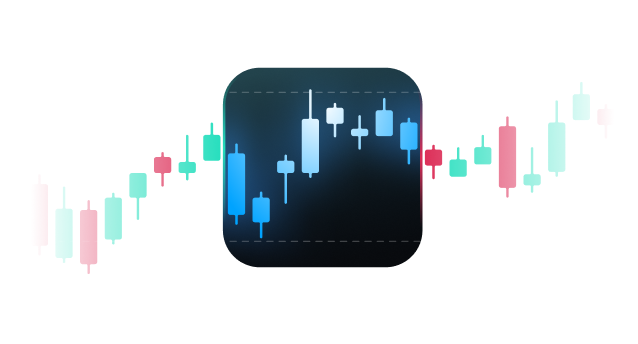
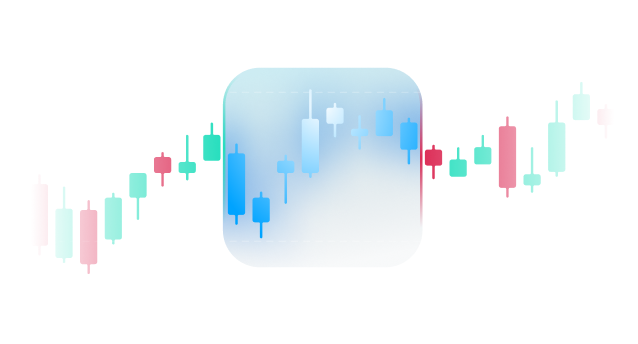
fix styles

Changed region(s): [[0.3276, 0.1744, 0.685, 0.7849]]

diff --git a/src/components/homepage-footer/HomepageFooter.js b/src/components/homepage-footer/HomepageFooter.js
@@ -1,7 +1,14 @@
 import React from 'react';
 import clsx from 'clsx';
 import styles from './HomepageFooter.module.css';
-import Link from "@docusaurus/Link";
+import Link from '@docusaurus/Link';
+import MediumImage from '../../../static/img/icons/medium.svg';
+import RedditImage from '../../../static/img/icons/reddit.svg';
+import TwitterImage from '../../../static/img/icons/twitter.svg';
+import DiscordImage from '../../../static/img/icons/discord.svg';
+import YoutubeImage from '../../../static/img/icons/youtube.svg';
+import TelegramImage from '../../../static/img/icons/telegram.svg';
+import GithubImage from '../../../static/img/icons/github.svg';
 
 
 const FooterLinks = {
@@ -90,31 +97,31 @@ const FooterLinks = {
     socialMedia: [
         {
             href: 'https://blog.1inch.io/',
-            image: '../../../static/img/icons/medium.svg'
+            image: <MediumImage/>
         },
         {
             href: 'https://www.reddit.com/r/1inch/',
-            image: '../../../static/img/icons/reddit.svg'
+            image: <RedditImage/>
         },
         {
             href: 'https://twitter.com/1inch',
-            image: '../../../static/img/icons/twitter.svg'
+            image: <TwitterImage/>
         },
         {
             href: 'https://discord.com/invite/1inch',
-            image: '../../../static/img/icons/discord.svg'
+            image: <DiscordImage/>
         },
         {
             href: 'https://www.youtube.com/channel/UCk0nvK4bHpteQXZKv7lkq5w',
-            image: '../../../static/img/icons/youtube.svg'
+            image: <YoutubeImage/>
         },
         {
             href: 'https://t.me/OneInchNetwork',
-            image: '../../../static/img/icons/telegram.svg'
+            image: <TelegramImage/>
         },
         {
             href: 'https://github.com/1inch',
-            image: '../../../static/img/icons/github.svg'
+            image: <GithubImage/>
         }
     ]
 }
@@ -150,8 +157,8 @@ export default function HomepageFooter() {
                     <div className={styles.socialMediaWrap}>
                         {
                             FooterLinks.socialMedia.map((media, idx) => (
-                                <Link to={media.href} key={idx}>
-                                    <img src={media.image} alt={media.link}/>
+                                <Link className={styles.socialMediaLink} to={media.href} key={idx}>
+                                    {media.image}
                                 </Link>
                             ))
                         }

diff --git a/src/pages/index.js b/src/pages/index.js
@@ -3,9 +3,10 @@ import clsx from 'clsx';
 import Layout from '@theme/Layout';
 import styles from './index.module.css';
 import HomepageFeatures from '../components/homepage-features/HomepageFeatures';
-import HomepageDeveloperLinks from "../components/homepage-developer-links/HomepageDeveloperLinks";
-import HomepagePreFooter from "../components/homepage-prefooter/HomepagePreFooter";
-import HomepageFooter from "../components/homepage-footer/HomepageFooter";
+import HomepageDeveloperLinks from '../components/homepage-developer-links/HomepageDeveloperLinks';
+import HomepagePreFooter from '../components/homepage-prefooter/HomepagePreFooter';
+import HomepageFooter from '../components/homepage-footer/HomepageFooter';
+import StartImage from '../../static/img/start-image.svg';
 
 function HomepageHeader() {
     return (
@@ -17,11 +18,23 @@ function HomepageHeader() {
 }
 
 export default function Home() {
+    document.addEventListener('scroll', function (e) {
+        const scrollPosition = window.scrollY;
+        const navbar = window.document.getElementsByClassName('navbar')[0];
+
+        if (scrollPosition > 0) {
+            navbar.classList.add('navbarFixed');
+        } else {
+            navbar.classList.remove('navbarFixed');
+        }
+    });
+
+
     return (
         <Layout pageClassName={styles.mainLayout}
-            title="1inch Network | Leading high capital efficient DeFi protocols"
-            description="The 1inch Network unites decentralized protocols whose synergy enables the most lucrative, fastest and protected operations in the DeFi space.">
-            <img className={styles.bgImage} src='../../static/img/start-image.png' alt="bg-image"/>
+                title="1inch Network | Leading high capital efficient DeFi protocols"
+                description="The 1inch Network unites decentralized protocols whose synergy enables the most lucrative, fastest and protected operations in the DeFi space.">
+            <StartImage className={styles.bgImage}/>
             <HomepageHeader/>
             <main>
                 <div className={styles.section}>
@@ -33,7 +46,7 @@ export default function Home() {
                 <div className={styles.section3}>
                     <HomepagePreFooter/>
                 </div>
-                <HomepageFooter />
+                <HomepageFooter/>
             </main>
             {/*<img src="../../static/img/bottom-gradient.png" alt="Bottom gradient" className={styles.bottomGradient} />*/}
         </Layout>

diff --git a/src/components/homepage-features/HomepageFeatures.js b/src/components/homepage-features/HomepageFeatures.js
@@ -2,9 +2,11 @@ import React from 'react';
 import clsx from 'clsx';
 import styles from './HomepageFeatures.module.css';
 import Link from '@docusaurus/Link';
-import aggregationProtocolImage from '../../../static/img/aggregationProtocol.png'
-import limitOrderProtocolImage from '../../../static/img/limit-order-protocol.png'
-import liquidityProtocolImage from '../../../static/img/liquidity-protocol.png'
+import aggregationProtocolImage from '../../../static/img/aggregationProtocol.png';
+import limitOrderProtocolImage from '../../../static/img/limit-order-protocol.png';
+import liquidityProtocolImage from '../../../static/img/liquidity-protocol.png';
+import GithubImage from '../../../static/img/icons/github-link.svg';
+import ArrowOutside from '../../../static/img/icons/arrow-outside.svg';
 
 const FeatureList = [
     {
@@ -75,7 +77,8 @@ function Feature({title, description, image, href, hrefGithub, links}) {
             <div className={styles.featureCardTitleWrap}>
                 <h3>{title}</h3>
                 <Link className={styles.featureCardGithubLink} to={hrefGithub}>
-                    <img className='icons-card' src='img/icons/github-link.svg' alt="github"/>
+                    <GithubImage/>
+                    {/*<img className='icons-card' src='img/icons/github-link.svg' alt="github"/>*/}
                 </Link>
             </div>
             <p className={styles.featureCardText}>{description}</p>
@@ -84,7 +87,7 @@ function Feature({title, description, image, href, hrefGithub, links}) {
                 links.map((link, index) => (
                     <Link to={link.href} className={styles.featureCardLinkWrap} key={index}>
                         <p>{link.title}</p>
-                        <img src='img/icons/arrow-outside.svg' alt={link.title}/>
+                        <ArrowOutside/>
                     </Link>
                 ))
             }

diff --git a/src/css/custom.css b/src/css/custom.css
@@ -1,7 +1,8 @@
 :root {
     --1inch-common-title: #FBFBFB;
 
-    --1inch-page-bg: #131722;
+    --1inch-page-bg: #06070A;
+    --1inch-bg-image: rgba(255, 255, 255, 0.09);
     --1inch-title: #FBFBFB;
     --1inch-text: rgba(255, 255, 255, 0.6);
     --1inch-border: rgba(255, 255, 255, 0.25);
@@ -10,6 +11,7 @@
 
 :root[data-theme='light'] {
     --1inch-page-bg: #f3f5fa;
+    --1inch-bg-image: rgba(108, 134, 173, 0.12);
     --1inch-title: #06070A;
     --1inch-text: #6C86AD;
     --1inch-border: rgba(0, 0, 0, 0.24);
@@ -33,4 +35,14 @@ p, a, h1, h2, h3 {
 .navbar {
     background: transparent;
     height: 72px;
+    box-shadow: none;
+    border-bottom: 1px solid transparent;
 }
+
+.navbarFixed {
+    background: var(--1inch-page-bg);
+    border-bottom-color: var(--1inch-border);
+    height: 60px;
+    transition: 0.2s;
+}
+

diff --git a/src/components/homepage-features/HomepageFeatures.module.css b/src/components/homepage-features/HomepageFeatures.module.css
@@ -25,6 +25,7 @@
 
 .featureCardGithubLink {
     display: contents;
+    color: var(--1inch-text);
 }
 
 .featureCardText {
@@ -43,9 +44,17 @@
     font-size: 16px;
     line-height: 26px;
     margin-bottom: 4px;
+    color: rgba(108, 134, 173, 0.55);
+}
+
+.featureCardLinkWrap p {
     color: var(--1inch-title);
 }
 
 .featureCardLinkWrap:last-child {
     margin-bottom: 0;
+}
+
+.featureCardLinkWrap:hover {
+    cursor: pointer;
 }

diff --git a/src/components/homepage-footer/HomepageFooter.module.css b/src/components/homepage-footer/HomepageFooter.module.css
@@ -61,6 +61,7 @@
 
 .footerSubscribeButton:hover {
     text-decoration: none;
+    color: var(--1inch-title);
 }
 
 .footerSubscribeButton img {
@@ -70,6 +71,10 @@
 .socialMediaWrap {
     display: flex;
     justify-content: space-between;
+}
+
+.socialMediaLink {
+    color: var(--1inch-text);
 }
 
 .afterFooter {

diff --git a/src/pages/index.module.css b/src/pages/index.module.css
@@ -25,10 +25,11 @@
 .bgImage {
     position: absolute;
     width: 552px;
-    height: 648px;
+    height: 637px;
     right: 80px;
     top: -72px;
     z-index: -1;
+    color: var(--1inch-bg-image);
 }
 
 .mainLayout {

diff --git a/src/components/homepage-prefooter/HomepagePreFooter.module.css b/src/components/homepage-prefooter/HomepagePreFooter.module.css
@@ -40,6 +40,11 @@
     background-color: var(--1inch-button);
 }
 
+.prefooterButton:hover {
+    text-decoration: none;
+    color: var(--1inch-common-title);
+}
+
 .prefooterButton img {
     margin-bottom: -4px;
 }
